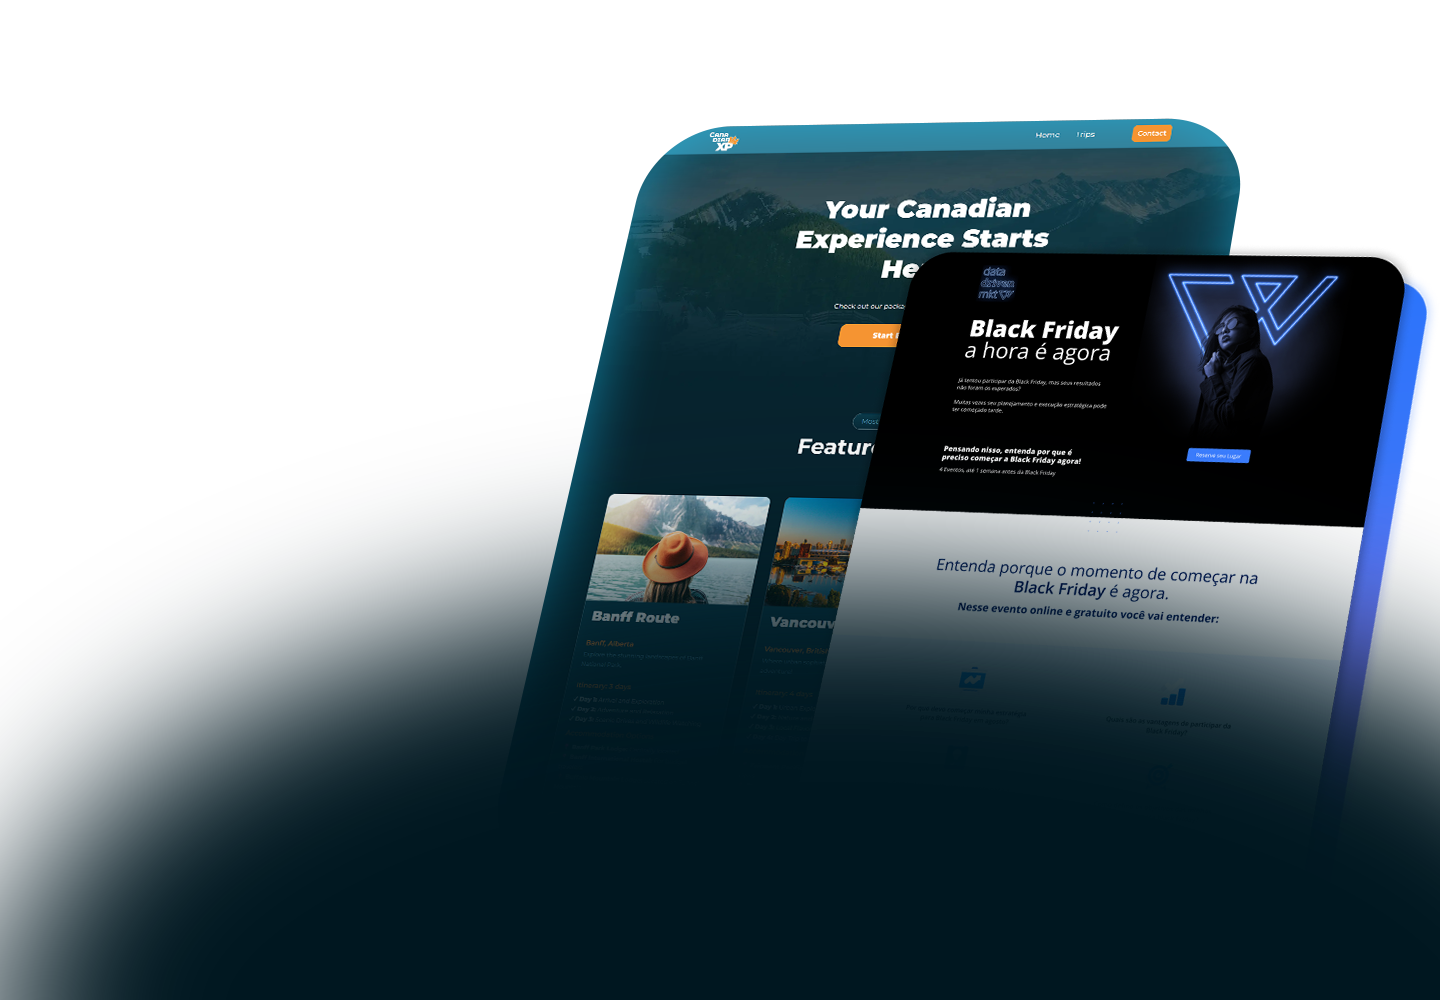
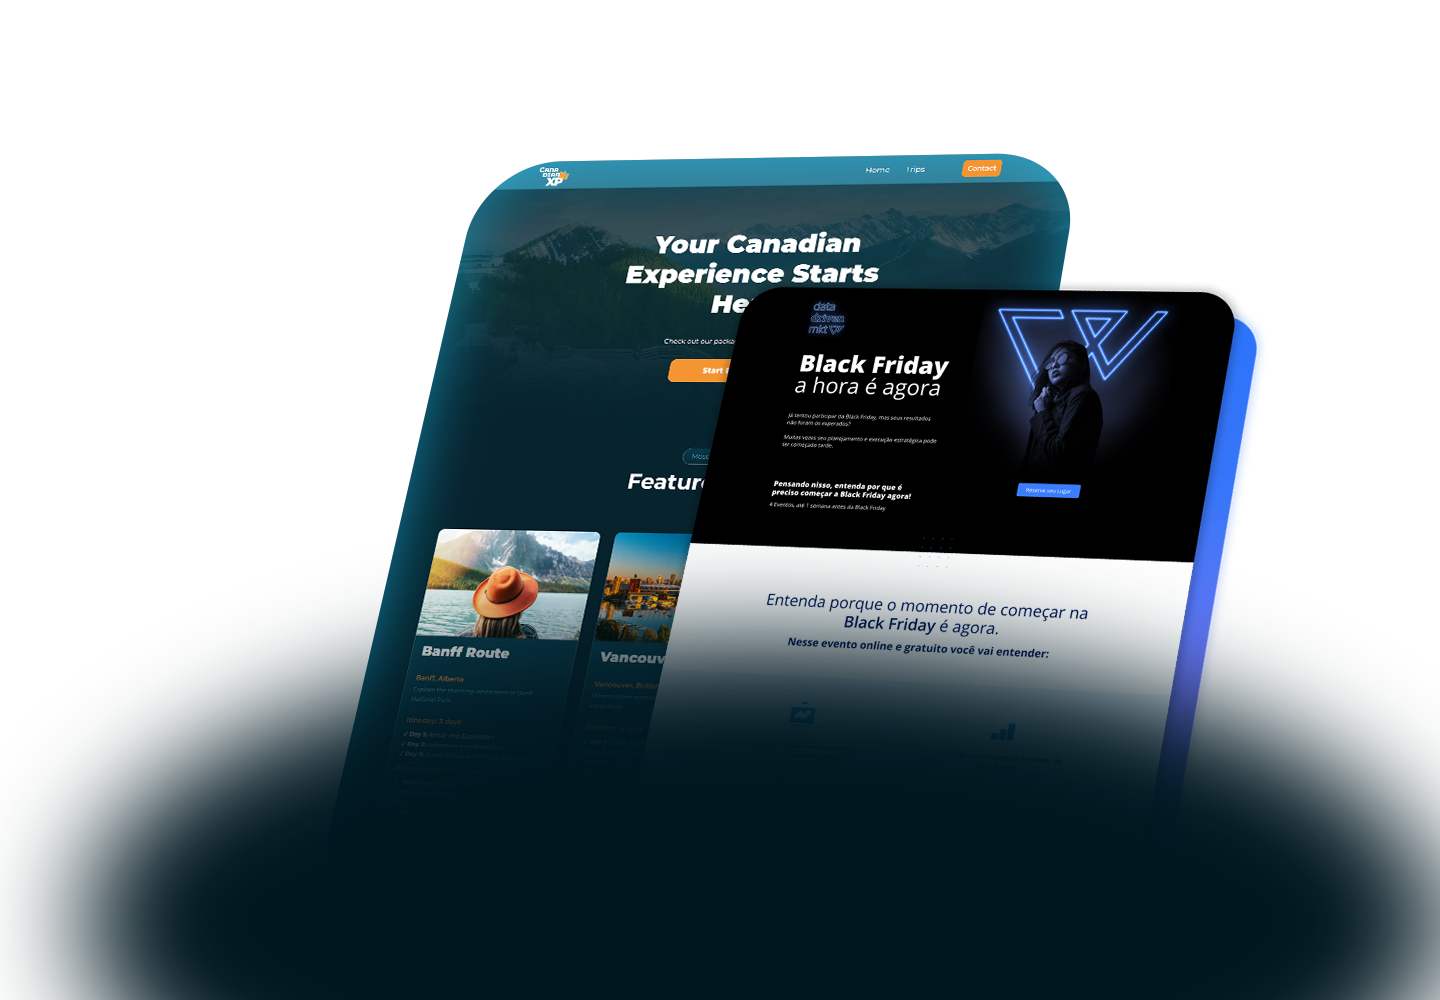
updated 2024-09-12

diff --git a/index.html b/index.html
@@ -39,7 +39,7 @@
 
         <div class="hero-container" id="home">
             <img src="images/hero-page1-adson.png" alt="Hero page Background for Adson Mettler portfolio website" width="1440" class="hero-image1" loading="lazy">
-            <img src="images/spaceman-hero.webp" alt="Hero page spaceman image for Adson Mettler portfolio website" width="1080" class="spaceman-hero" loading="lazy">
+            
             <section class="flexbox-content">
                 <h1>Adson Mettler</h1>
                 <p class="subtitle"><span>Marketing Specialist</span></p>

diff --git a/styles/layout-large.css b/styles/layout-large.css
@@ -102,7 +102,7 @@
         animation: fade 1s ease-in 0.1s forwards;
         width: 45%;
         margin: 2% 0 0 0;
-        left: 30%;
+        left: 25%;
         -webkit-mask-image: linear-gradient(
             rgb(0, 23, 32, 0.8),
             rgb(0, 23, 32, 0.8) 80%,

diff --git a/styles/layout.css b/styles/layout.css
@@ -165,6 +165,7 @@ main {
     position: relative;
     width: 100%;
     margin: 90px 0 0 0;
+    right: 15%;
 }
 
 
